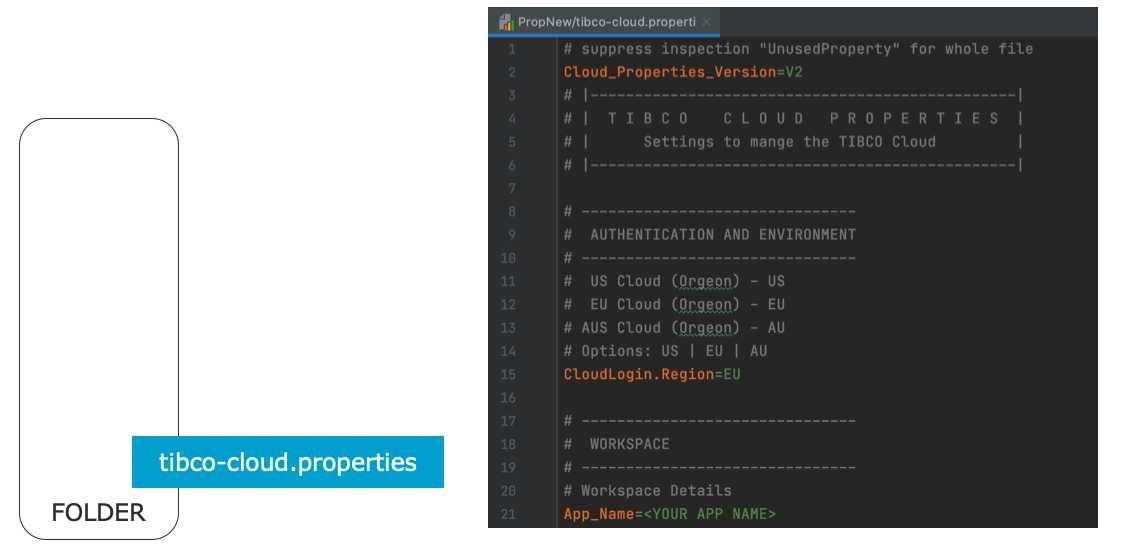
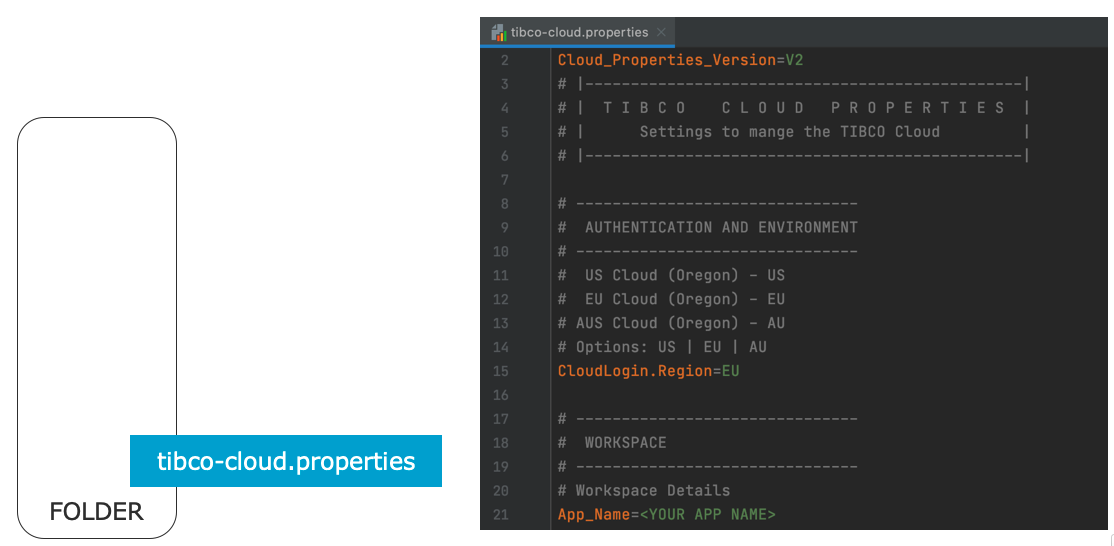
Docs

diff --git a/src/build/common-functions.js b/src/build/common-functions.js
@@ -1124,7 +1124,7 @@ upgradeToV2 = function(isGlobal, propFile){
     log(INFO, colors.rainbow('* * * * * * * * * * * * * * * * * * * * * * * * * * *'));
     log(INFO, colors.rainbow('* * * ') + ' Adding new Properties...');
     addOrUpdateProperty(propFile, 'Cloud_Properties_Version', 'V2', EnableMessage + '\n# Property File Version', false);
-    addOrUpdateProperty(propFile, 'CloudLogin.Region', newORG, EnableMessage + '\n# Use:\n#  US Cloud (Orgeon) - US\n#  EU Cloud (Orgeon) - EU\n# AUS Cloud (Orgeon) - AU\n# Options: US | EU | AU', false);
+    addOrUpdateProperty(propFile, 'CloudLogin.Region', newORG, EnableMessage + '\n# Use:\n#  US Cloud (Oregon) - US\n#  EU Cloud (Oregon) - EU\n# AUS Cloud (Oregon) - AU\n# Options: US | EU | AU', false);
     // addOrUpdateProperty(propFile, '# CloudLogin.Cloud_Location', 'cloud.tibco.com', 'Optional, if provided it uses a different cloud URL than cloud.tibco.com', false);
     createPropINE(isGlobal, propFile,'CloudLogin.OAUTH_Generate_Token_Name',initialTokenName , 'Name of the OAUTH token to be generated.');
     createPropINE(isGlobal, propFile,'CloudLogin.OAUTH_Generate_For_Tenants','TSC,BPM' , 'Comma separated list of tenants for which the OAUTH Token gets generated. (Options: TSC,BPM,TCDS,TCE,TCI,TCM,SPOTFIRE,TCMD)\n#  TSC: General Cloud Authentication\n#  BPM: LiveApps Authentication\n# TCDS: TIBCO Cloud Data Streams Authentication\n#  TCE: TIBCO Cloud Events Authentication\n#  TCI: TIBCO Cloud Integration Authentication\n#  TCM: TIBCO Cloud Messaging Authentication\n#  SPOTFIRE: TIBCO Cloud Spotfire Authentication\n#  TCMD: TIBCO Cloud Meta Data Authentication\n# NOTE: You need to be part of the specified subscription.');

diff --git a/docs/tutorials_new/001_TCLI_Overview.md b/docs/tutorials_new/001_TCLI_Overview.md
@@ -1,5 +1,7 @@
 # TCLI: Overview
 
+<img src="001_Toolkit.png" alt="drawing" width="1000" style="margin: 40px auto; display: block;width: 50%;"/>
+
 ---
 ## Description
 > The **TIBCO Command Line Interface (TCLI)** is a tool that can be run from the command line to **manage** your **Cloud Starters** and interact with the **TIBCO Cloud**. The tool can be used on Windows, Linux or a MAC. By entering commands on a terminal you work **interactively** (Questions & Answers) or **directly** by providing the answers inline or from a (property) file. It serves the following use cases: 
@@ -59,7 +61,7 @@ tcli
 
 ![](001_New_Folder.png)
 
-> To get started just choose to create a new property file. The tcli will ask you for your Client ID and login details to the TIBCO Cloud to create an OAUTH Token. Get your client ID from https://cloud.tibco.com/ -> Settings -> Advanced Settings -> Display Client ID. If you have a global configuration already setup the tcli will use that configuration for the connection details. Read more about Global Configuration here: [Global Configuration](#global-configuration)
+> To get started just choose to create a new property file. The tcli will ask you for your Client ID and login details to the TIBCO Cloud to create an OAUTH Token. Get your client ID from https://cloud.tibco.com/ -> Settings -> Advanced Settings -> Display Client ID. If you have a global configuration already setup the tcli will use that configuration for the connection details. Read more about Global Configuration here: [Global Configuration](./002_Global_Configuration.md)
 
 > Note: you can also run to use or create a tibco cloud property file with a different name:
 ```console
@@ -101,17 +103,5 @@ tcli sl
 ```console
 tcli -h show-cloud-starter-links
 ```
+> Now you are ready to [setup your own Cloud Starter](./003_Get_Started_With_Cloud_Starters.md)
 
----
-## Global Configuration
-> When you run the tcli in a folder without the tibco-cloud property file you have an option to manage the global configuration:
-
-![](001_Manage_Global.png)
-
-> Note you can also manage this global configuration from a folder that has a tibco-cloud property file, with the following two tasks:
-
-```console
-tcli view-global-config
-tcli update-global-config
-```
-> Or you can get to these tasks in the interactive menu.

diff --git a/docs/tutorials_new/002_Global_Configuration.md b/docs/tutorials_new/002_Global_Configuration.md
@@ -1,0 +1,30 @@
+# TCLI: Global Property Configuration
+
+---
+> When you run the tcli in a folder without the tibco-cloud property file you have an option to manage the global configuration:
+
+![](001_Manage_Global.png)
+
+> Note you can also manage this global configuration from a folder that has a tibco-cloud property file, with the following two tasks:
+
+```console
+tcli view-global-config
+tcli update-global-config
+```
+> Or you can get to these tasks in the interactive menu.
+
+> The global configuration is a property file that lives within the global NPM folder and can contain values that can apply to various cloud property files on your drive. When a property in a file is specified as ***USE-GLOBAL*** the global file is used:
+
+![](001_Global_Prop.png)
+
+> After you have setup the TIBCO Cloud Connection details in the global file, when you create a new TIBCO Cloud Property file it will initiate with ***USE-GLOBAL*** for the connection details:
+
+<img src="001_Global_Set.png" alt="drawing" width="600" style="margin: 20px"/>
+
+> This is very useful when you are managing multiple Cloud Starters and you want to share the connection details:
+
+![](001_CS_Global.png)
+
+> It is also better to use the global configuration from a ***security perspective***, in this way when you accidentally check in the tibco-cloud property file into a source control system (like GitHub) it does not contain any secrets. Although in the cloud starer templates this file is in the .gigignore file.
+
+> You can choose to ***store your password*** into the global-tibco-cloud property file. This will be stored in ***obfuscated***(scrambled) way. This is not required but is useful when your OAUTH Token expires; the tcli will then ***fall back*** on this authentication mechanism automatically (otherwise you will be asked for your password again).
